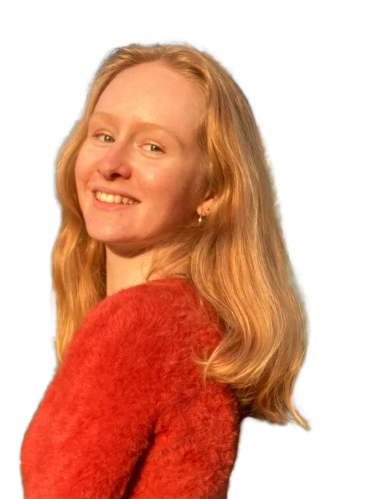
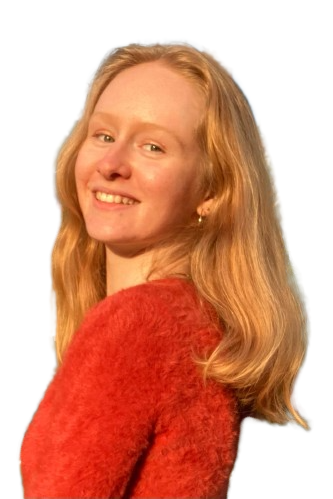
home adaptive

diff --git a/src/components/Home.jsx b/src/components/Home.jsx
@@ -10,22 +10,28 @@ import { FaMapMarkerAlt } from 'react-icons/fa'
 function Home() {
     return <div className="Home">
         <div className="Home_text">
-            <p className="Home_text_name">Lucine Giraud</p>
+            <p className="Home_text_name">Lucine  Giraud</p>
             <p className="Home_text_niches">LIFESTYLE | PERSONAL CARE | PLANT LOVER</p>
             <p className="Home_text_ugc">Créatrice UGC - Créatrice de contenu pour les marques</p>
-            <div style={{ display: 'flex', flexDirection: 'row', alignItems: 'center', justifyContent: 'center', marginTop: '40px' }}>
+            <div className="Home_location">
                 <FaMapMarkerAlt size={20} />
                 <p className="France"> France</p>
             </div>
-            <div className="Home_links">
-                <a href="mailto:contact-ugc@lucine-giraud.com" target="_blank" rel="noreferrer"><img src={mail} alt="instagram" className="Home_links_icon" /></a>
-                <a href="https://www.tiktok.com/@lucine.ugc" target="_blank" rel="noreferrer"><img src={tiktok} alt="instagram" className="Home_links_icon" /></a>
-                <a href="https://www.instagram.com/lucine.ugc/" target="_blank" rel="noreferrer"><img src={insta} alt="instagram" className="Home_links_icon" /></a>
-                <a href="https://www.youtube.com/channel/UCxkCFuD-PtTCVP2H0etYXQQ" target="_blank" rel="noreferrer"><img src={youtube} alt="instagram" className="Home_links_icon" /></a>
+            <div className="Home_links_pic_phone">
+                <div className="Home_links">
+                    <a href="mailto:contact-ugc@lucine-giraud.com" target="_blank" rel="noreferrer"><img src={mail} alt="instagram" className="Home_links_icon" /></a>
+                    <a href="https://www.tiktok.com/@lucine.ugc" target="_blank" rel="noreferrer"><img src={tiktok} alt="instagram" className="Home_links_icon" /></a>
+                    <a href="https://www.instagram.com/lucine.ugc/" target="_blank" rel="noreferrer"><img src={insta} alt="instagram" className="Home_links_icon" /></a>
+                    <a href="https://www.youtube.com/channel/UCxkCFuD-PtTCVP2H0etYXQQ" target="_blank" rel="noreferrer"><img src={youtube} alt="instagram" className="Home_links_icon" /></a>
+                </div>
+                <div className="Home_pic_phone">
+                    <img src={profile_pic} alt="profil" className="Home_pic_img" style={{ width: '100%' }} />
+                </div>
             </div>
+
         </div>
-        <div className="Home_pic">
-            <img src={profile_pic} alt="profil" className="Home_pic_img" />
+        <div className="Home_pic_pc">
+            <img src={profile_pic} alt="profil" className="Home_pic_img" style={{ width: '100%' }} />
         </div>
 
     </div>

diff --git a/src/styles/Home.css b/src/styles/Home.css
@@ -2,7 +2,6 @@
     display: flex;
     flex-direction: row;
     margin-left: 5%;
-
 }
 
 .Home_text {
@@ -10,30 +9,47 @@
     text-align: center;
     color: var(--yellow);
     margin-bottom: 0;
-
 }
 
-.Home_pic_img{
-    width: 500px;
-    margin-bottom: 0;
+
+.Home_pic_img {
+    margin: 0 30px;
+}
+
+.Home_pic_pc {
+    display: flex;
+    align-items: flex-end;
+    min-width: 35%;
+}
+
+.Home_pic_phone {
+    display: none;
 }
 
 .Home_text_name {
     font-family: 'Abril Fatface', sans-serif;
-    font-size: 100px;
+    font-size: 7em;
     margin-bottom: 0;
 }
 
 .Home_text_niches {
     font-family: 'Quicksand', sans-serif;
     letter-spacing: 2px;
-    font-size: 30px;
+    font-size: 2.2em;
 }
 
 .Home_text_ugc {
     font-family: 'Josefin Sans', sans-serif;
     letter-spacing: 2px;
-    font-size: 25px;
+    font-size: 1.8em;
+}
+
+.Home_location {
+    display: flex;
+    flex-direction: row;
+    align-items: center;
+    justify-content: center;
+    margin-top: 40px;
 }
 
 .France {
@@ -43,12 +59,66 @@
     font-size: 25px;
 }
 
-.Home_links{
+.Home_links {
     justify-content: space-between;
 }
 
-.Home_links_icon{
+.Home_links_icon {
     margin: 20px 15px;
     width: 50px;
 }
 
+@media (max-width: 640px) {
+    .Home {
+        flex-direction: column;
+        margin: 1.5em;
+        margin-bottom: 0;
+    }
+
+    .Home_text_name {
+        font-size: 3em;
+    }
+
+    .Home_text_niches {
+        font-size: 0.8em;
+        font-weight: 700;
+        margin-top: 0.5em;
+        margin-bottom: 2em;
+    }
+
+    .Home_text_ugc {
+        font-size: 1em;
+    }
+
+    .Home_location {
+        margin-top: 0px;
+    }
+
+    .France {
+        font-size: 1em;
+    }
+
+    .Home_pic_phone {
+        display: flex;
+    }
+
+    .Home_pic_pc {
+        display: none;
+    }
+
+    .Home_links_pic_phone {
+        display: flex;
+    }
+
+    .Home_links {
+        display: flex;
+        flex-direction: column;
+        justify-content: center;
+    }
+
+    .Home_links_icon {
+        margin: 1em 0.3em;
+        width: 70%;
+    }
+
+}

diff --git a/src/components/About Me.jsx b/src/components/About Me.jsx
@@ -9,7 +9,7 @@ function About() {
                 <span style={{ fontStyle: 'italic', fontWeight: '600' }}>More</span><br />
                 <span style={{ fontWeight: '900', marginBottom: '20px' }}>About me</span>
             </p>
-            <img src={pic} alt="lucine à toulouse" />
+            <img src={pic} alt="lucine à toulouse" style={{width:"50%"}}/>
         </div>
         <div className='About_text'>
             <div className='About_text_p'>

diff --git a/src/styles/Header.css b/src/styles/Header.css
@@ -4,6 +4,13 @@
   width: 72%;
 }
 
+@media (max-width: 640px) {
+  .Header {
+    width: 100vw;
+
+  }
+}
+
 .Header_list {
   color: #368226;
   list-style-type: none;
@@ -13,6 +20,13 @@
   justify-content: space-around;
   font-family: 'League Spartan', sans-serif;
   font-size: 30px;
+}
+
+@media (max-width: 640px) {
+  .Header_list {
+    margin-left: 0;
+    font-size: 15px;
+  }
 }
 
 button {

diff --git a/src/styles/About Me.css b/src/styles/About Me.css
@@ -29,9 +29,13 @@ p {
     font-size: 25px;
     line-height: 30px;
     display: flex;
-
 }
 
+@media (max-width: 640px) {
+    .About_container{
+        flex-direction: column;
+    }
+}
 .About_text_p {
     padding: 10px 10%;
     

diff --git a/src/styles/Why.css b/src/styles/Why.css
@@ -5,7 +5,7 @@
 
 .Why_stat {
     flex: 1;
-    align-items: center;
+    
 }
 
 .Why_head {
